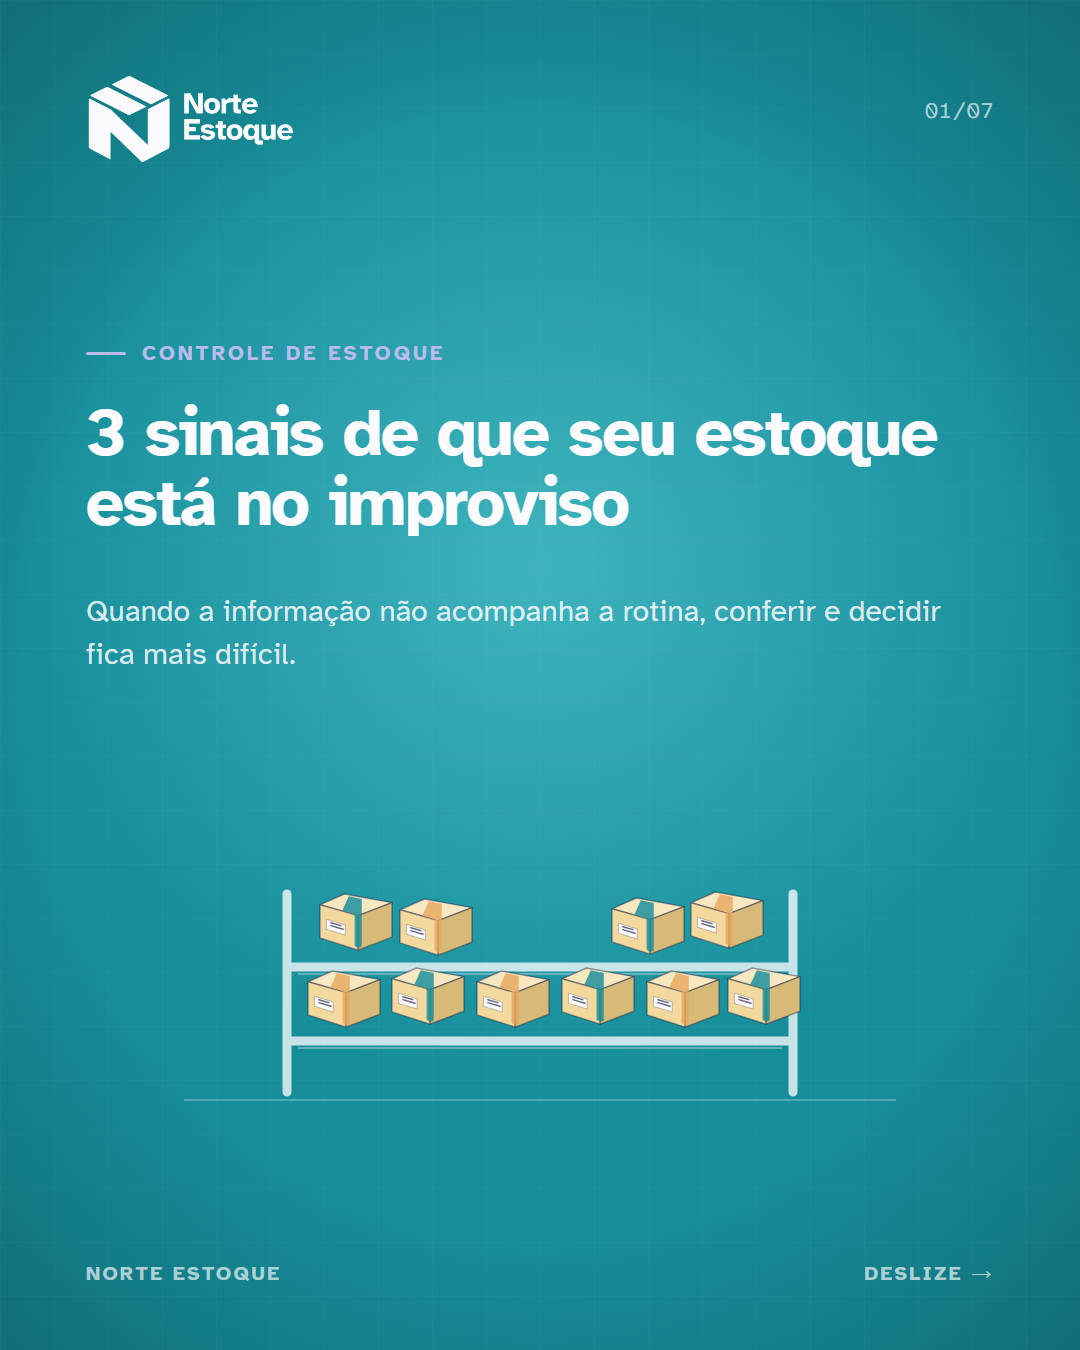
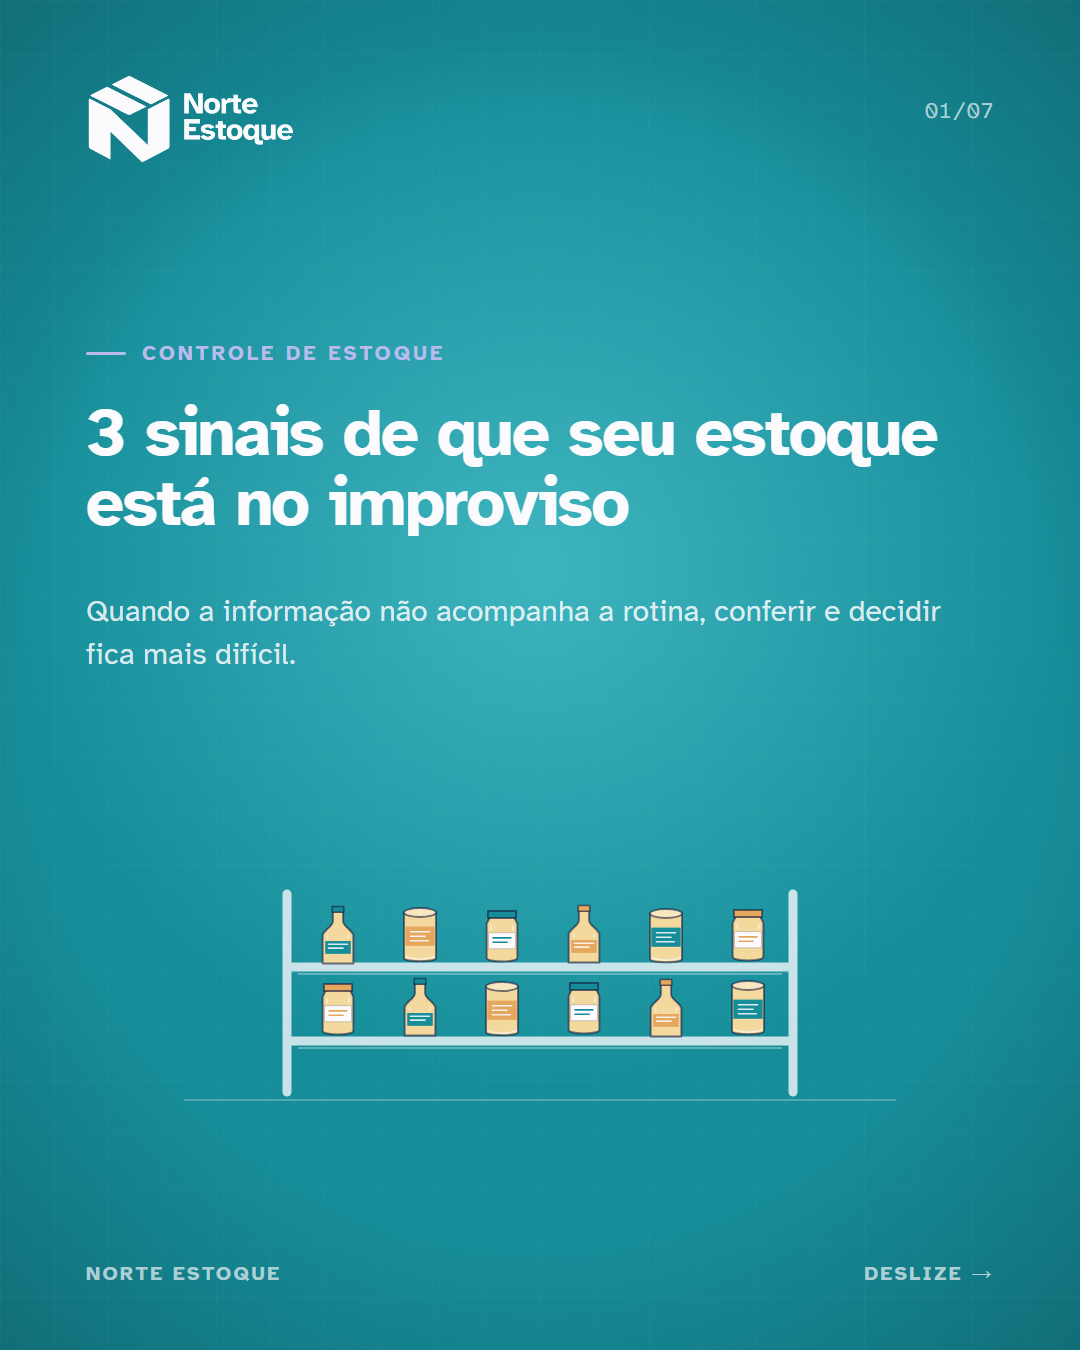
Replace Norte Estoque cover cartons with stock products

Changed region(s): [[0.275, 0.6533, 0.7639, 0.7778]]

diff --git a/src/templates/NorteEstoqueSinais.tsx b/src/templates/NorteEstoqueSinais.tsx
@@ -23,14 +23,29 @@ const Slide: React.FC<{n: number; tone: 'dark' | 'light' | 'product'; eyebrow: s
 
 const PaperLine: React.FC<{width: number; color?: string}> = ({width, color = 'rgba(20,22,58,.18)'}) => <div style={{height: 8, width, borderRadius: 5, background: color}} />;
 
-const Carton: React.FC<{x: number; y: number; scale?: number; accent?: string}> = ({x, y, scale = 1, accent = '#168E9A'}) => (
-  <g data-carton="dimensional" transform={`translate(${x} ${y}) scale(${scale})`} strokeLinejoin="round">
-    <path d="M0 15L34 0L100 12L53 30Z" fill="#F8E8C1" stroke="rgba(20,22,58,.42)" strokeWidth="2" />
-    <path d="M0 15L53 30V78L0 61Z" fill="#F3D99E" stroke="rgba(20,22,58,.42)" strokeWidth="2" />
-    <path d="M53 30L100 12V60L53 78Z" fill="#D7B978" stroke="rgba(20,22,58,.42)" strokeWidth="2" />
-    <path d="M40 3L58 7L58 73L53 75L48 72L48 28L31 23Z" fill={accent} opacity=".82" />
-    <path d="M9 35L35 43V57L9 49Z" fill="#FBFBFE" stroke="rgba(20,22,58,.24)" strokeWidth="1.5" />
-    <path d="M15 40L29 44M15 44L32 49" stroke={NAVY} strokeWidth="2" strokeLinecap="round" opacity=".65" />
+const StockItem: React.FC<{x: number; y: number; scale?: number; type: 'bottle' | 'can' | 'jar'; accent?: string}> = ({x, y, scale = 1, type, accent = '#168E9A'}) => (
+  <g data-item={type} transform={`translate(${x} ${y}) scale(${scale})`} strokeLinejoin="round" strokeLinecap="round">
+    {type === 'bottle' && <>
+      <path d="M42 15H58V30C58 38 70 42 74 51V96H26V51C30 42 42 38 42 30Z" fill="#F3D99E" stroke="rgba(20,22,58,.58)" strokeWidth="3" />
+      <path d="M41 7H59V16H41Z" fill={accent} stroke="rgba(20,22,58,.58)" strokeWidth="2.5" />
+      <path d="M30 61H70V81H30Z" fill={accent} />
+      <path d="M35 66H65M35 72H58" stroke="#FBFBFE" strokeWidth="2.5" opacity=".85" />
+      <path d="M34 51V57M66 51V57" stroke="#FBFBFE" strokeWidth="2" opacity=".65" />
+    </>}
+    {type === 'can' && <>
+      <path d="M25 18C25 13 75 13 75 18V89C75 96 25 96 25 89Z" fill="#F3D99E" stroke="rgba(20,22,58,.58)" strokeWidth="3" />
+      <ellipse cx="50" cy="18" rx="25" ry="7" fill="#F8E8C1" stroke="rgba(20,22,58,.58)" strokeWidth="3" />
+      <path d="M27 40H73V70H27Z" fill={accent} />
+      <path d="M35 48H65M35 55H58M35 62H63" stroke="#FBFBFE" strokeWidth="2.5" opacity=".88" />
+      <path d="M28 87C38 92 62 92 72 87" stroke="#FBFBFE" strokeWidth="2" opacity=".75" />
+    </>}
+    {type === 'jar' && <>
+      <path d="M31 24H69L74 34V87C74 95 26 95 26 87V34Z" fill="#F3D99E" stroke="rgba(20,22,58,.58)" strokeWidth="3" />
+      <path d="M28 14H72V25H28Z" fill={accent} stroke="rgba(20,22,58,.58)" strokeWidth="3" />
+      <path d="M29 48H71V73H29Z" fill="#FBFBFE" stroke="rgba(20,22,58,.2)" strokeWidth="1.5" />
+      <path d="M36 56H64M36 63H58" stroke={accent} strokeWidth="2.5" />
+      <path d="M33 37V43M67 37V43" stroke="#FBFBFE" strokeWidth="2" opacity=".8" />
+    </>}
   </g>
 );
 
@@ -50,16 +65,18 @@ const Cover: React.FC = () => {
             <path d="M74 310H786" stroke="rgba(251,251,254,.25)" strokeWidth="2" />
             <path d="M177 104V302M683 104V302M177 177H683M177 251H683" stroke="rgba(251,251,254,.78)" strokeWidth="9" strokeLinecap="round" />
             <path d="M188 184H672M188 258H672" stroke="rgba(251,251,254,.32)" strokeWidth="2" />
-            <Carton x={210} y={104} scale={0.72} />
-            <Carton x={290} y={109} scale={0.72} accent="#E5A75E" />
-            <Carton x={502} y={108} scale={0.72} accent="#168E9A" />
-            <Carton x={581} y={102} scale={0.72} accent="#E5A75E" />
-            <Carton x={198} y={181} scale={0.72} accent="#E5A75E" />
-            <Carton x={282} y={178} scale={0.72} />
-            <Carton x={367} y={181} scale={0.72} accent="#E5A75E" />
-            <Carton x={452} y={178} scale={0.72} />
-            <Carton x={537} y={181} scale={0.72} accent="#E5A75E" />
-            <Carton x={618} y={178} scale={0.72} />
+            <StockItem x={196} y={112} scale={0.64} type="bottle" />
+            <StockItem x={278} y={111} scale={0.64} type="can" accent="#E5A75E" />
+            <StockItem x={360} y={112} scale={0.64} type="jar" />
+            <StockItem x={442} y={111} scale={0.64} type="bottle" accent="#E5A75E" />
+            <StockItem x={524} y={112} scale={0.64} type="can" />
+            <StockItem x={606} y={111} scale={0.64} type="jar" accent="#E5A75E" />
+            <StockItem x={196} y={185} scale={0.64} type="jar" accent="#E5A75E" />
+            <StockItem x={278} y={184} scale={0.64} type="bottle" />
+            <StockItem x={360} y={185} scale={0.64} type="can" accent="#E5A75E" />
+            <StockItem x={442} y={184} scale={0.64} type="jar" />
+            <StockItem x={524} y={185} scale={0.64} type="bottle" accent="#E5A75E" />
+            <StockItem x={606} y={184} scale={0.64} type="can" />
           </svg>
         </div>
         <Foot tone="product" label="Norte Estoque" />
